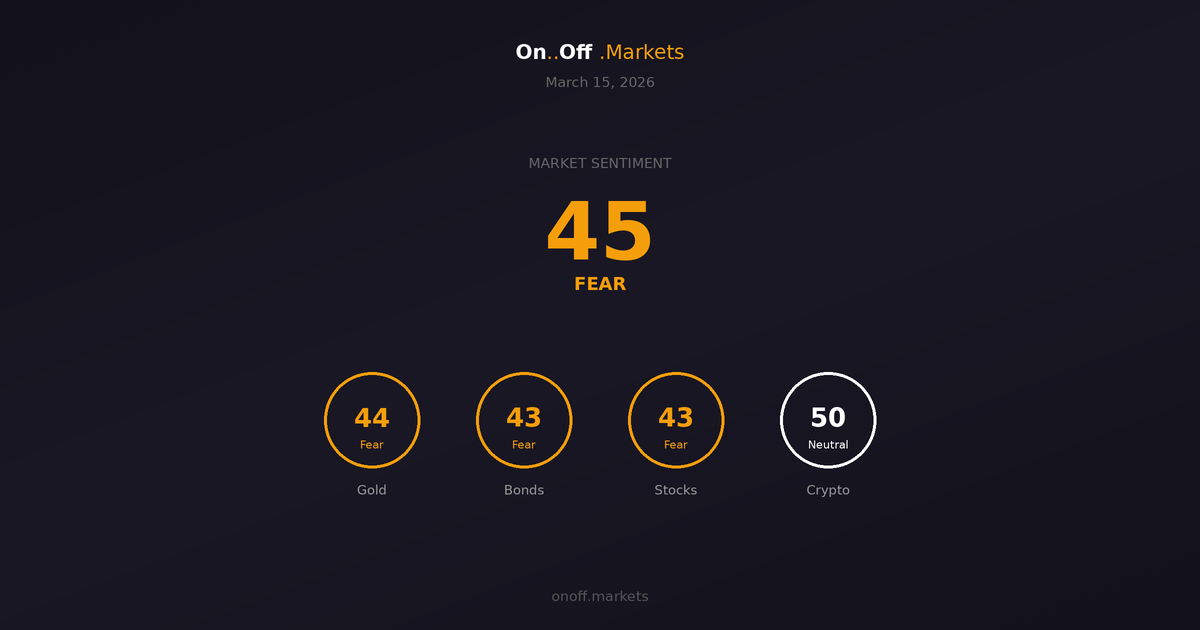
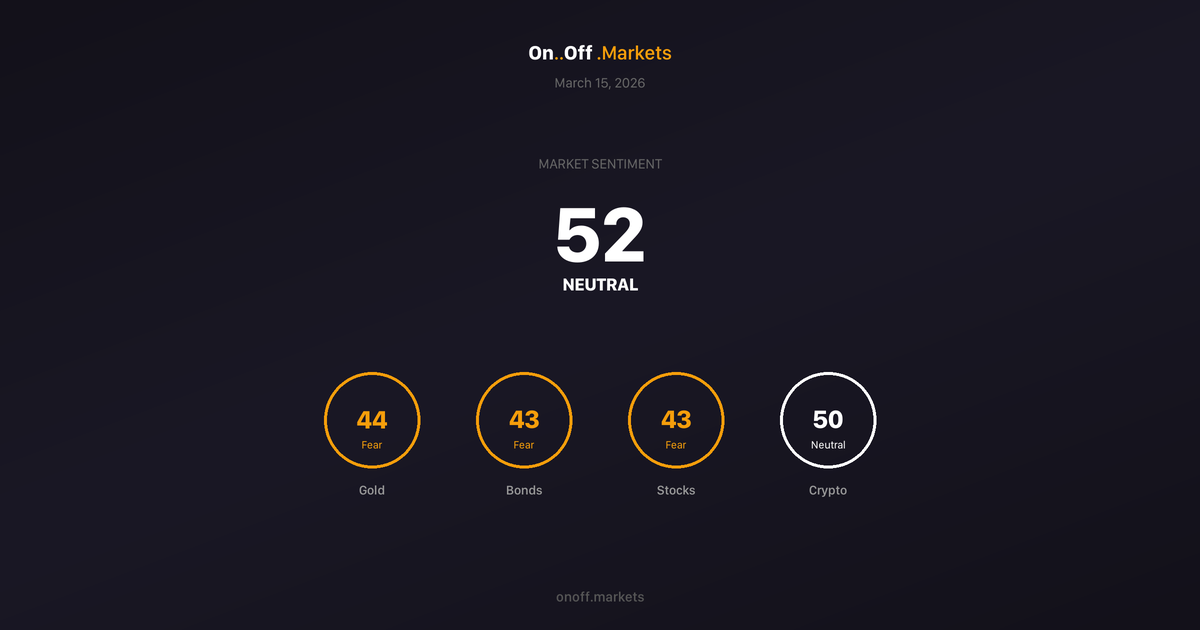
Fix sentiment score in share card: use risk-on/risk-off formula
Was using simple average, now matches site formula:
sentiment = ((riskOn - riskOff + 100) / 200) * 100

diff --git a/generate_share_card.py b/generate_share_card.py
@@ -135,7 +135,10 @@ def center_text(draw, y, text, font, fill):
 
 def generate():
     scores = load_scores()
-    sentiment = round(sum(scores.values()) / len(scores))
+    # Same formula as index.html: risk-on vs risk-off
+    risk_on = (scores['stocks'] + scores['crypto']) / 2
+    risk_off = (scores['bonds'] + scores['gold']) / 2
+    sentiment = round(((risk_on - risk_off + 100) / 200) * 100)
 
     S = SCALE
     img = Image.new('RGB', (WIDTH * S, HEIGHT * S), (19, 17, 26))
